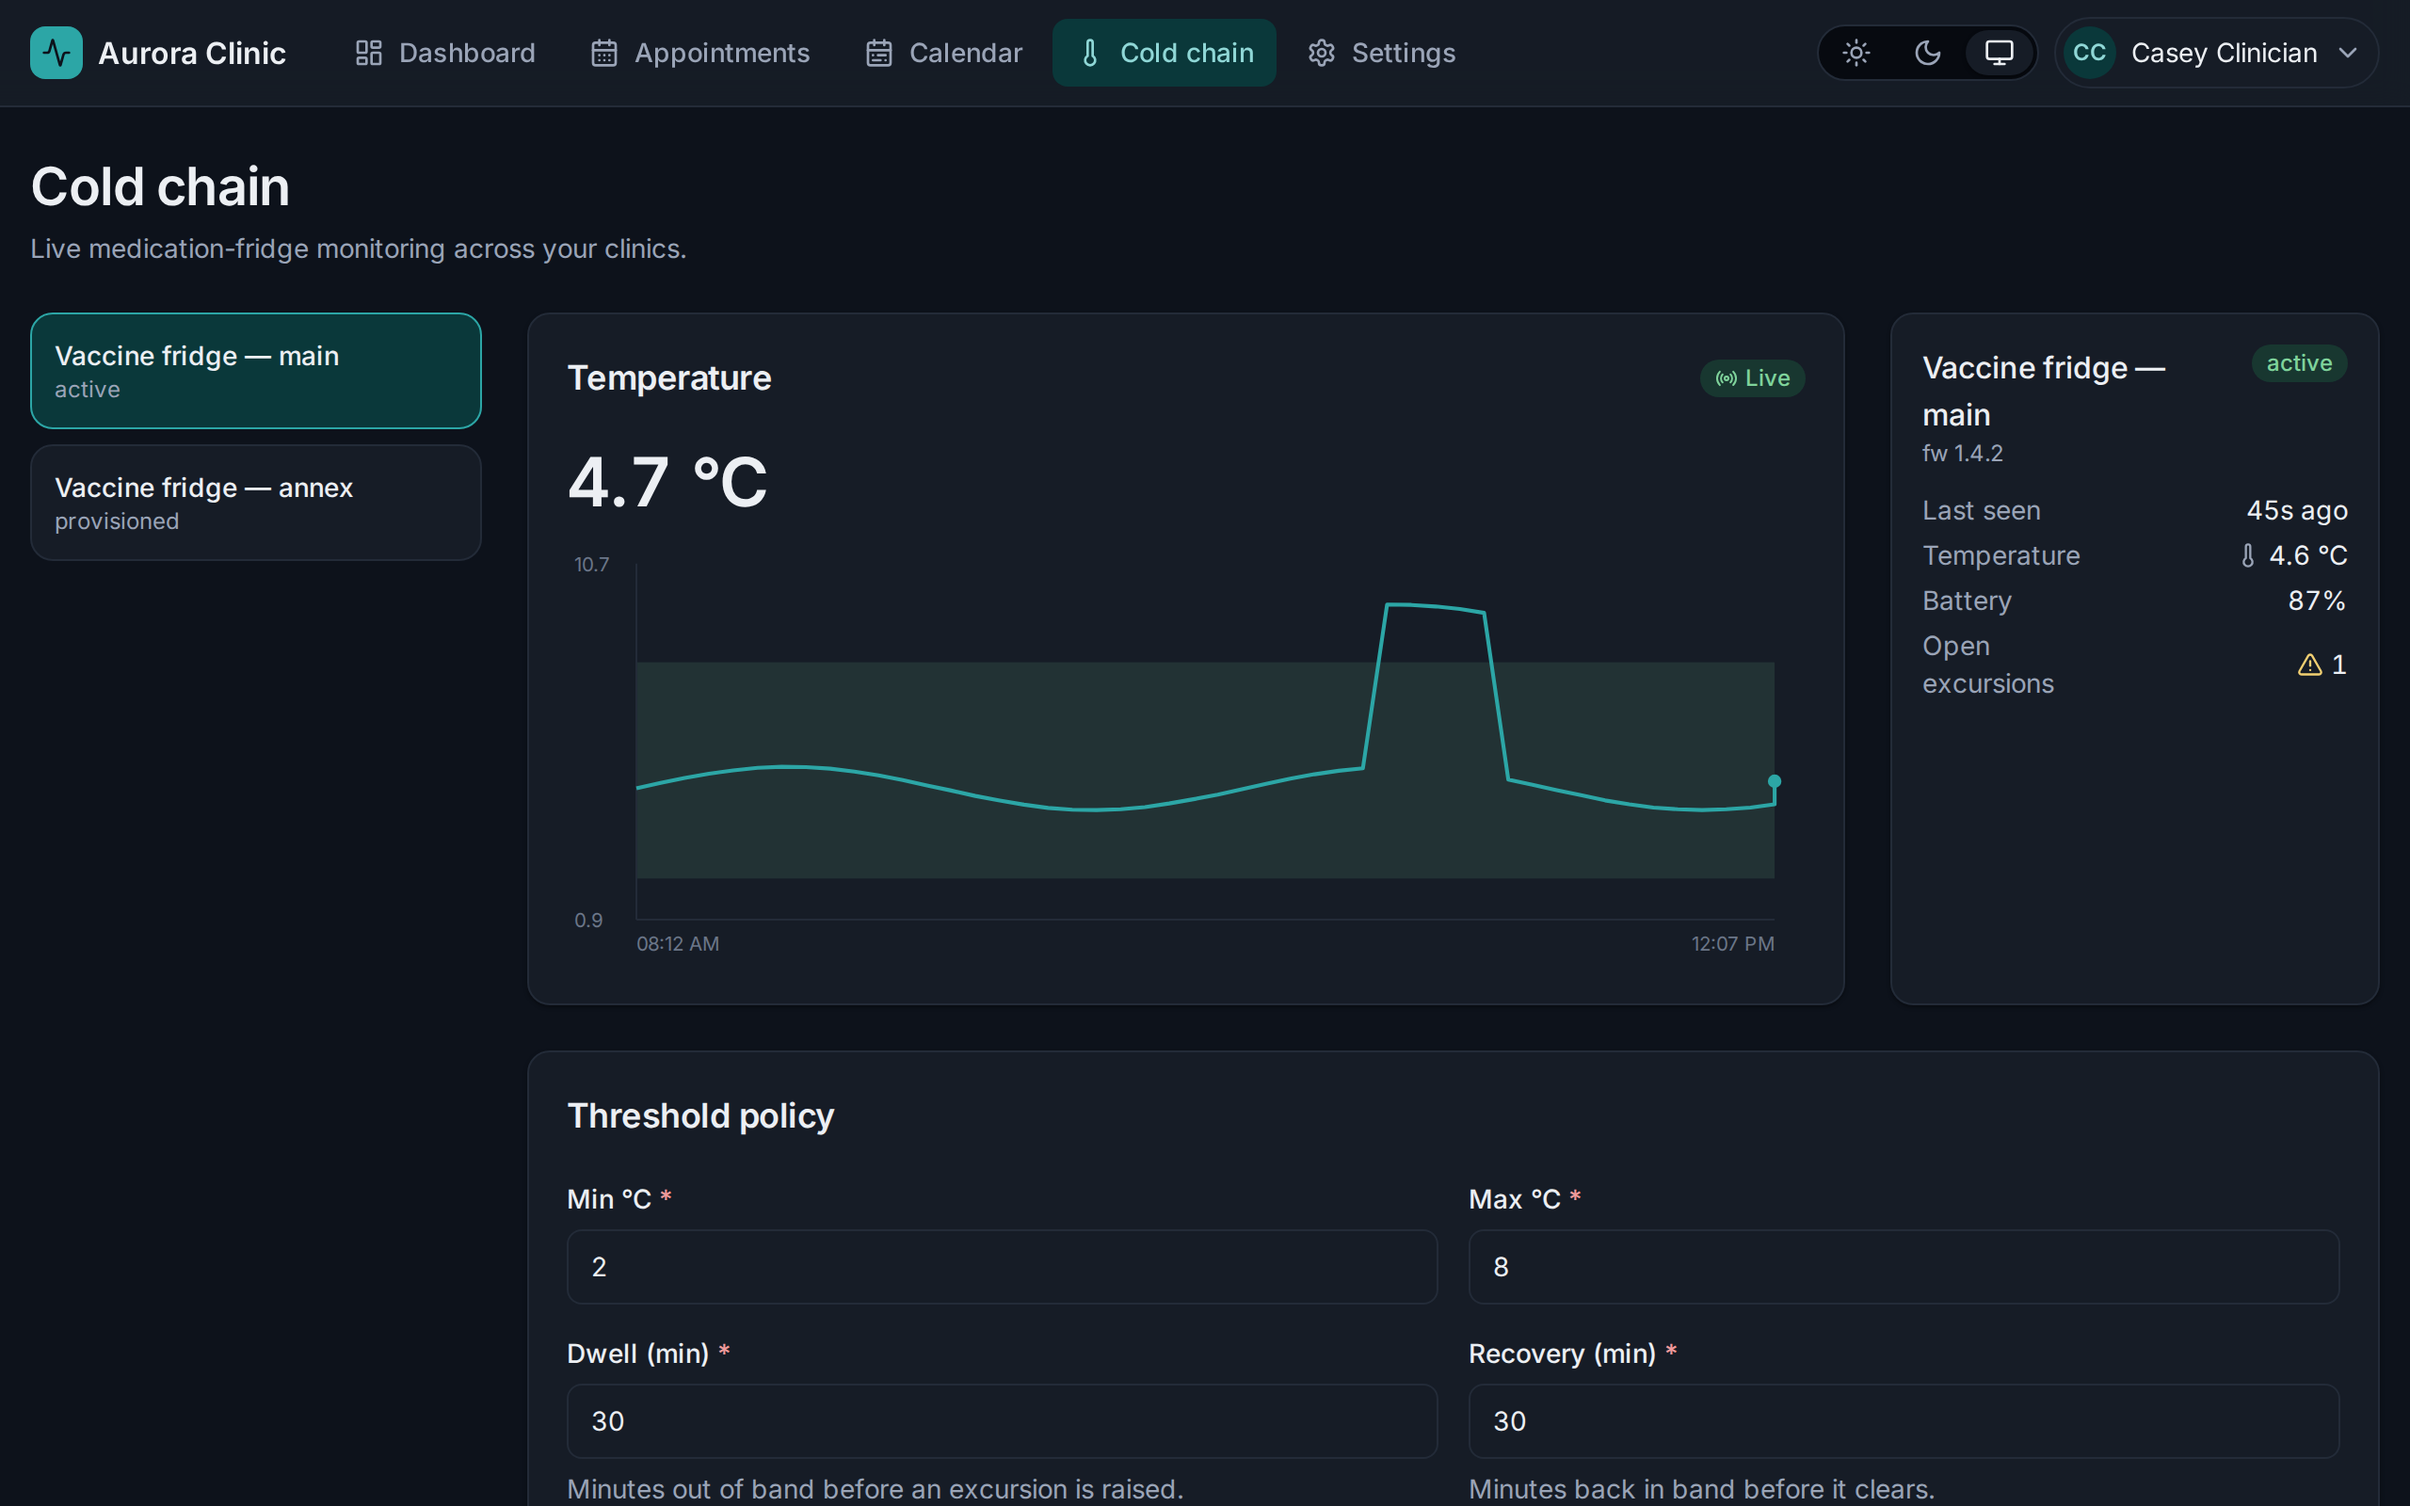
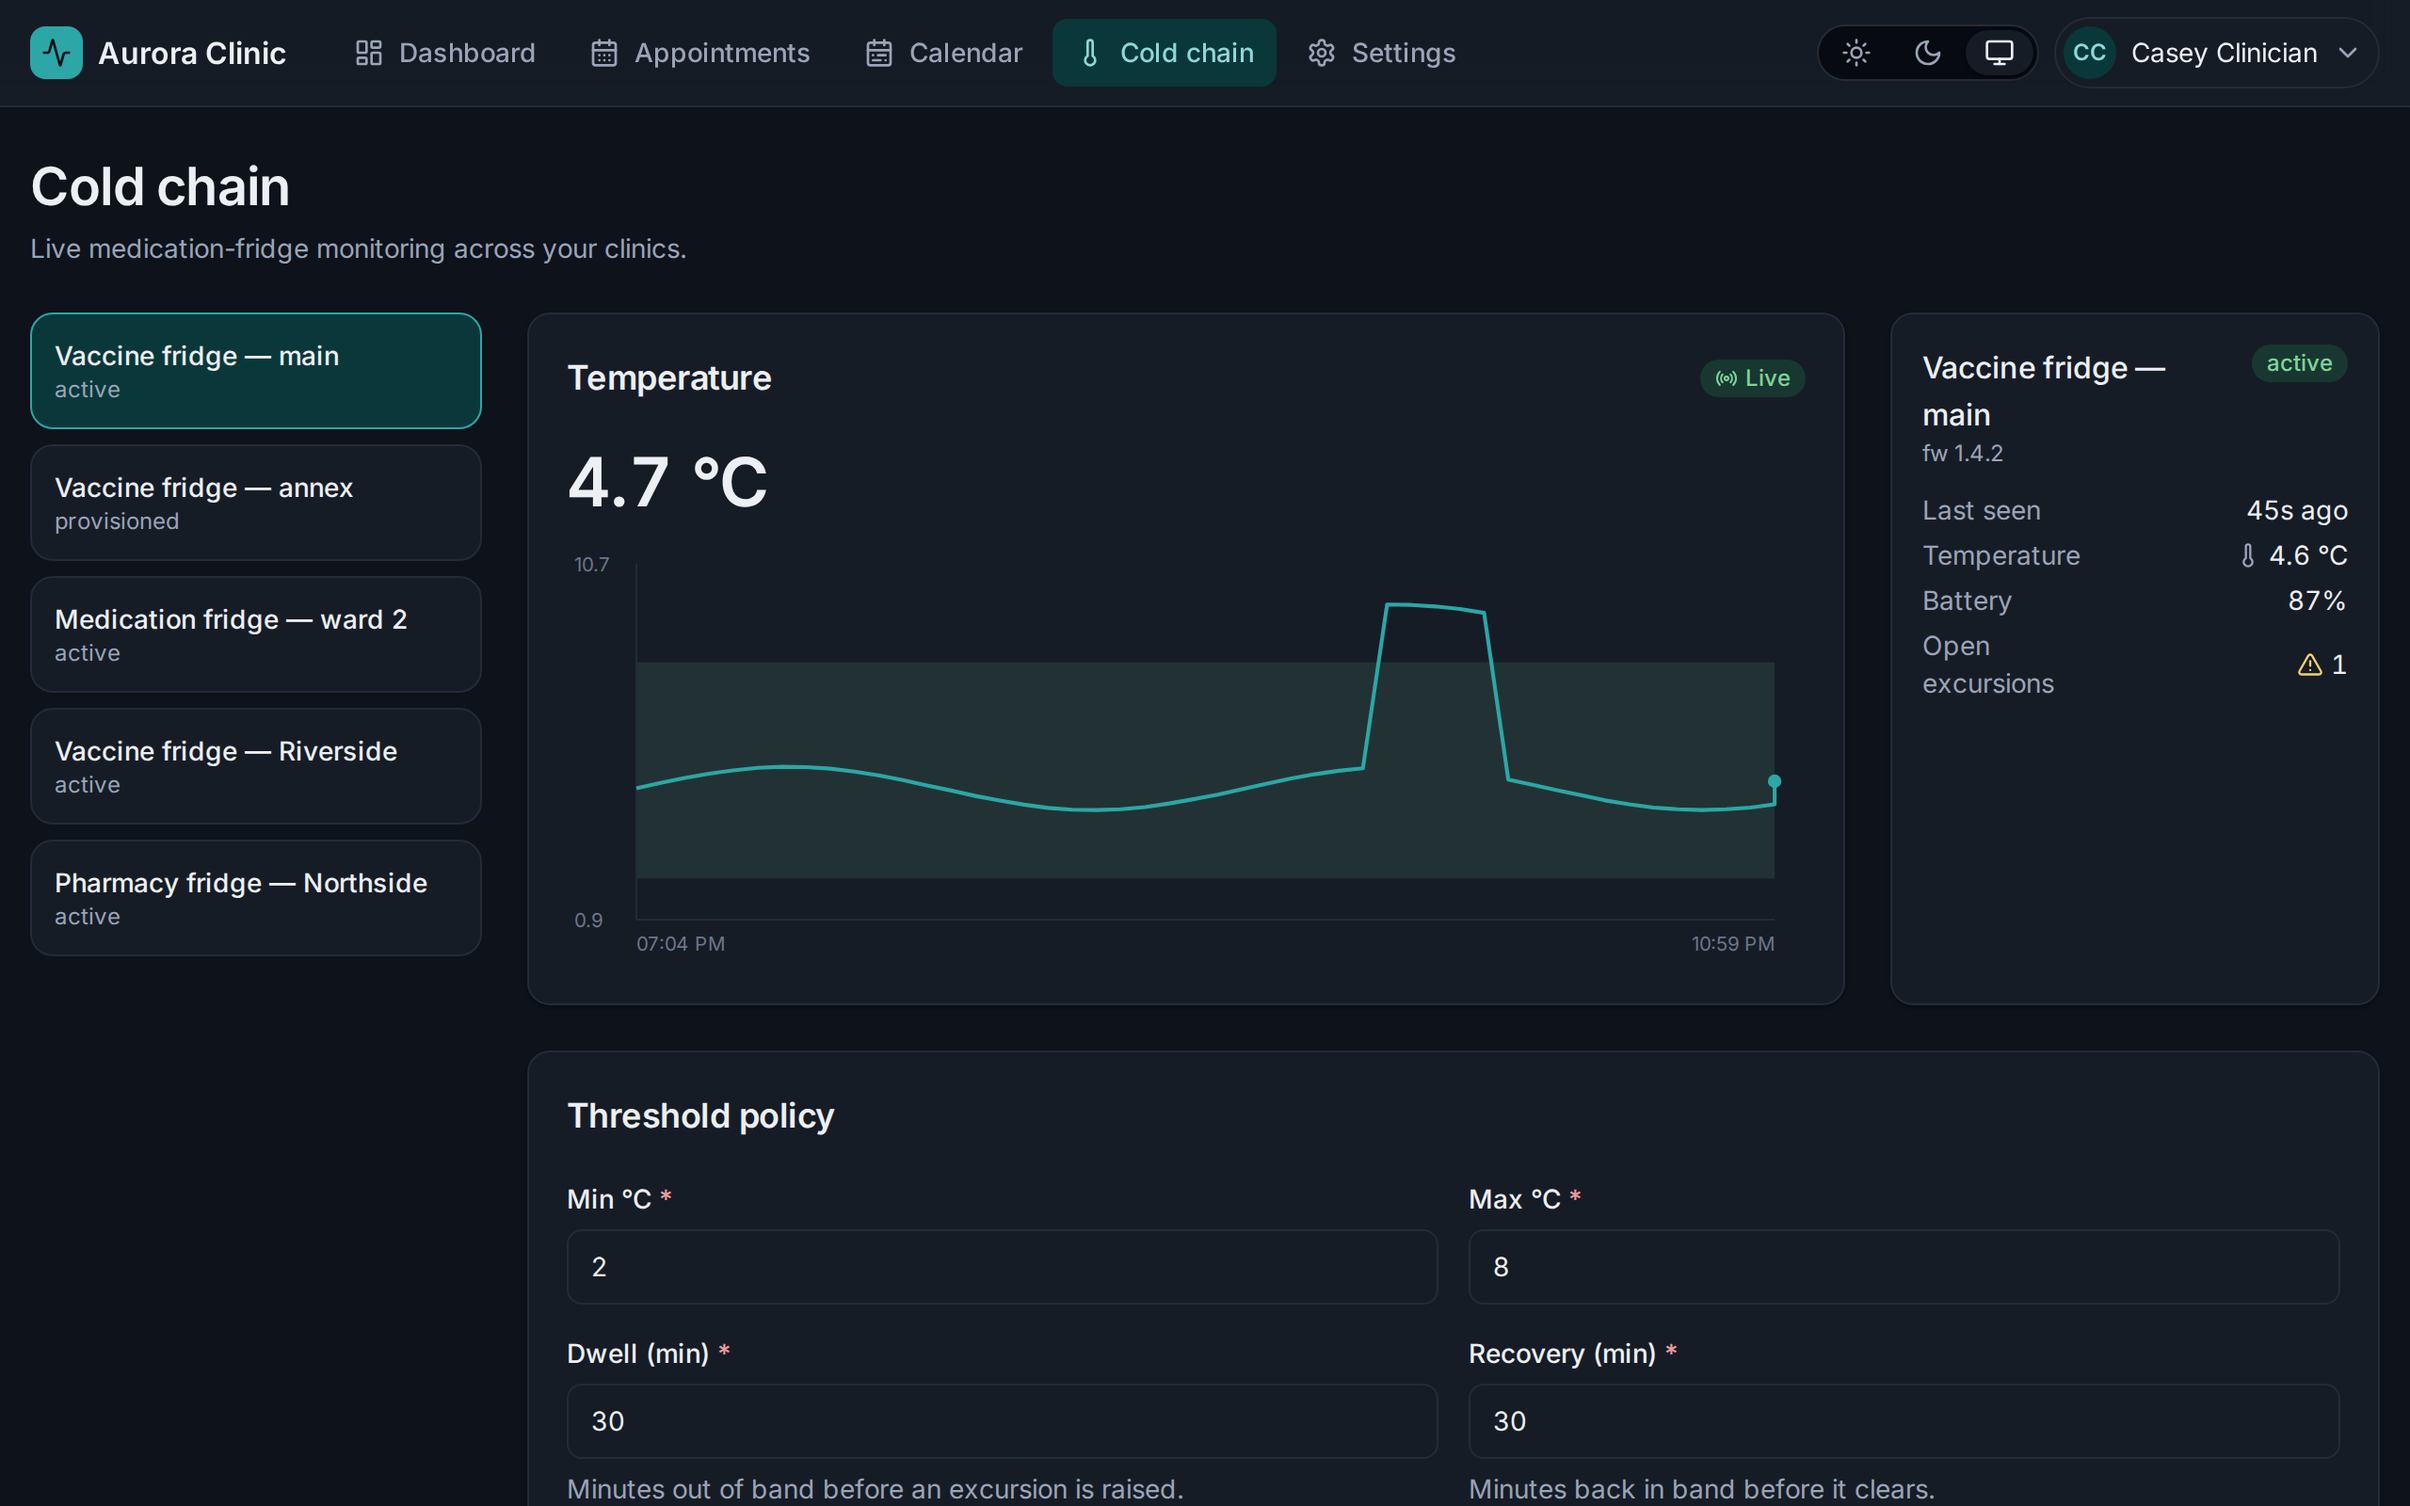
docs(web): retake screenshots with the fuller demo; update PRODUCT.md

Changed region(s): [[0.0312, 0.5625, 0.1875, 0.625], [0.0312, 0.4688, 0.1562, 0.5312], [0.0, 0.4062, 0.1562, 0.4375]]

diff --git a/e2e/showcase/screenshots.spec.ts b/e2e/showcase/screenshots.spec.ts
@@ -18,6 +18,7 @@ test("dashboard", async ({ page }) => {
   await page.goto("/");
   await expect(page.getByRole("heading", { level: 1, name: /Welcome,/ })).toBeVisible();
   await expect(page.getByText(/No upcoming appointments/i)).toBeHidden();
+  await expect(page.getByText("1 open excursion")).toBeVisible();
   await shot(page, "dashboard");
 });
 
@@ -53,7 +54,8 @@ test("cold chain", async ({ page }) => {
 test("admin audit log", async ({ page }) => {
   await seedSession(page, "PLATFORM_ADMIN");
   await page.goto("/admin/audit");
-  await expect(page.getByText("appointment.confirmed")).toBeVisible();
+  await expect(page.getByText("appointment.confirmed").first()).toBeVisible();
+  await expect(page.getByText("Aurora Northside")).toBeVisible();
   await shot(page, "admin");
 });
 

diff --git a/PRODUCT.md b/PRODUCT.md
@@ -61,7 +61,8 @@ after a recovery time, and acknowledgement by staff. A typical booking demo cann
 - **Tests stay the proof.** Any UI change keeps the unit, component, E2E, accessibility, visual, and
   layout tests green; a new UI rule gets a test. Visual baselines are regenerated only for an
   intended change, and the diff is reviewed.
-- Known gap: the audit log shows raw entity and actor IDs, not names.
+- The audit log shows actor and entity names; it falls back to a short id when a lookup is not
+  allowed or the entity is gone (a clinic admin may not read other users' records).
 
 ## Brand Commitments
 
@@ -73,9 +74,10 @@ after a recovery time, and acknowledgement by staff. A typical booking demo cann
 
 - Demo accounts (mock backend only, password `password123`): `patient@aurora.test`,
   `clinician@aurora.test`, `admin@aurora.test`.
-- Demo data: two clinics (Aurora Downtown, Aurora Riverside), one clinician, two services, two
-  fridge devices with a seeded open excursion, a week of bookings in every status
-  (`src/mocks/db.ts`).
+- Demo data (`seedDemoData` in `src/mocks/db.ts`): three clinics (Aurora Downtown, Riverside,
+  Northside), four clinicians, six services, five fridge sensors with one open excursion, two weeks
+  of bookings in every status, and an audit trail. The extra people are records only; the three
+  sign-in accounts stay the same. Tests use the smaller base seed.
 - Screenshots of the real rendered pages: `docs/screenshots/` (regenerated by `npm run screenshots`).
 - **Absent, and must not be invented:** real clinics or customers, testimonials, usage numbers,
   uptime or performance claims, certifications, and real sensor readings. The demo is labelled as a
